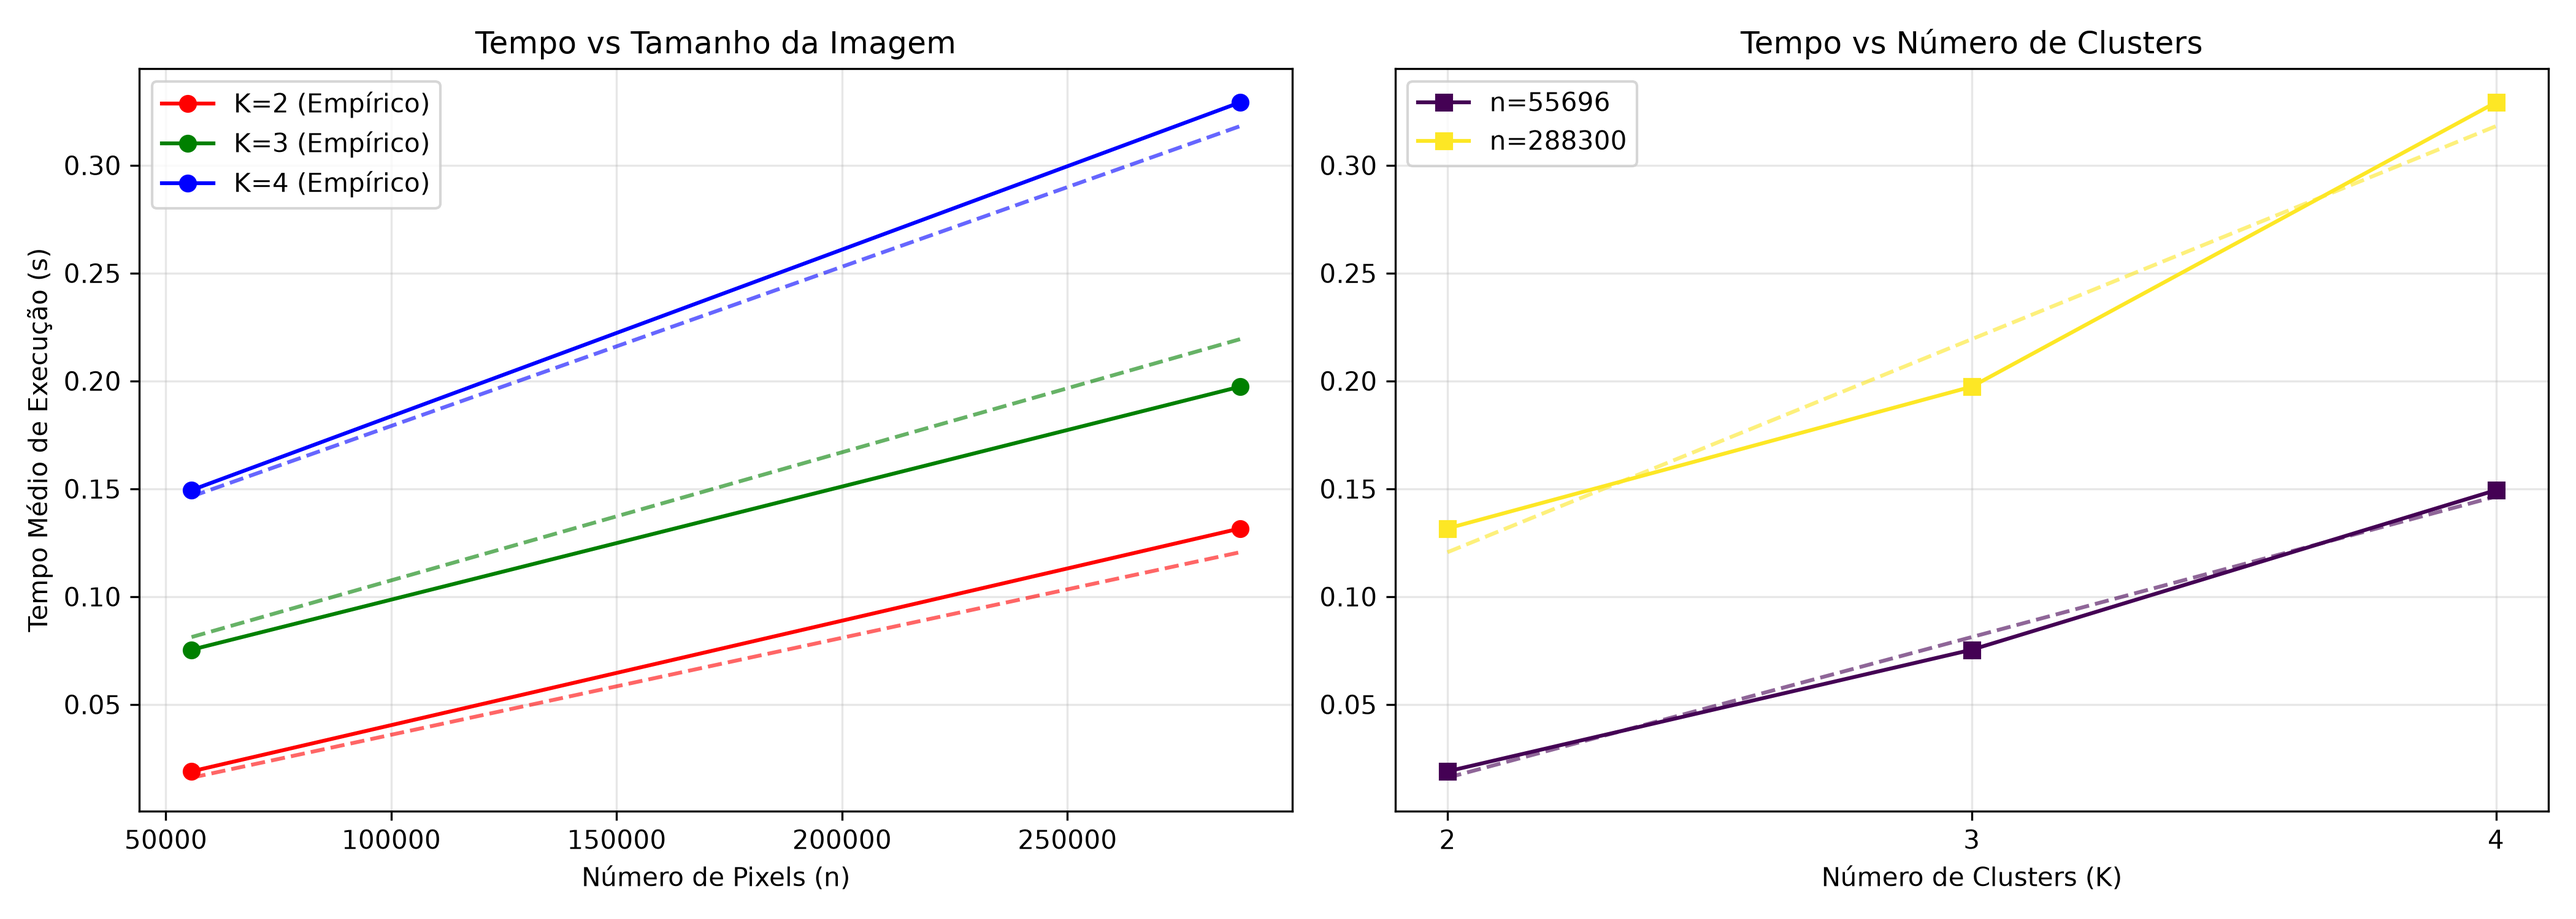
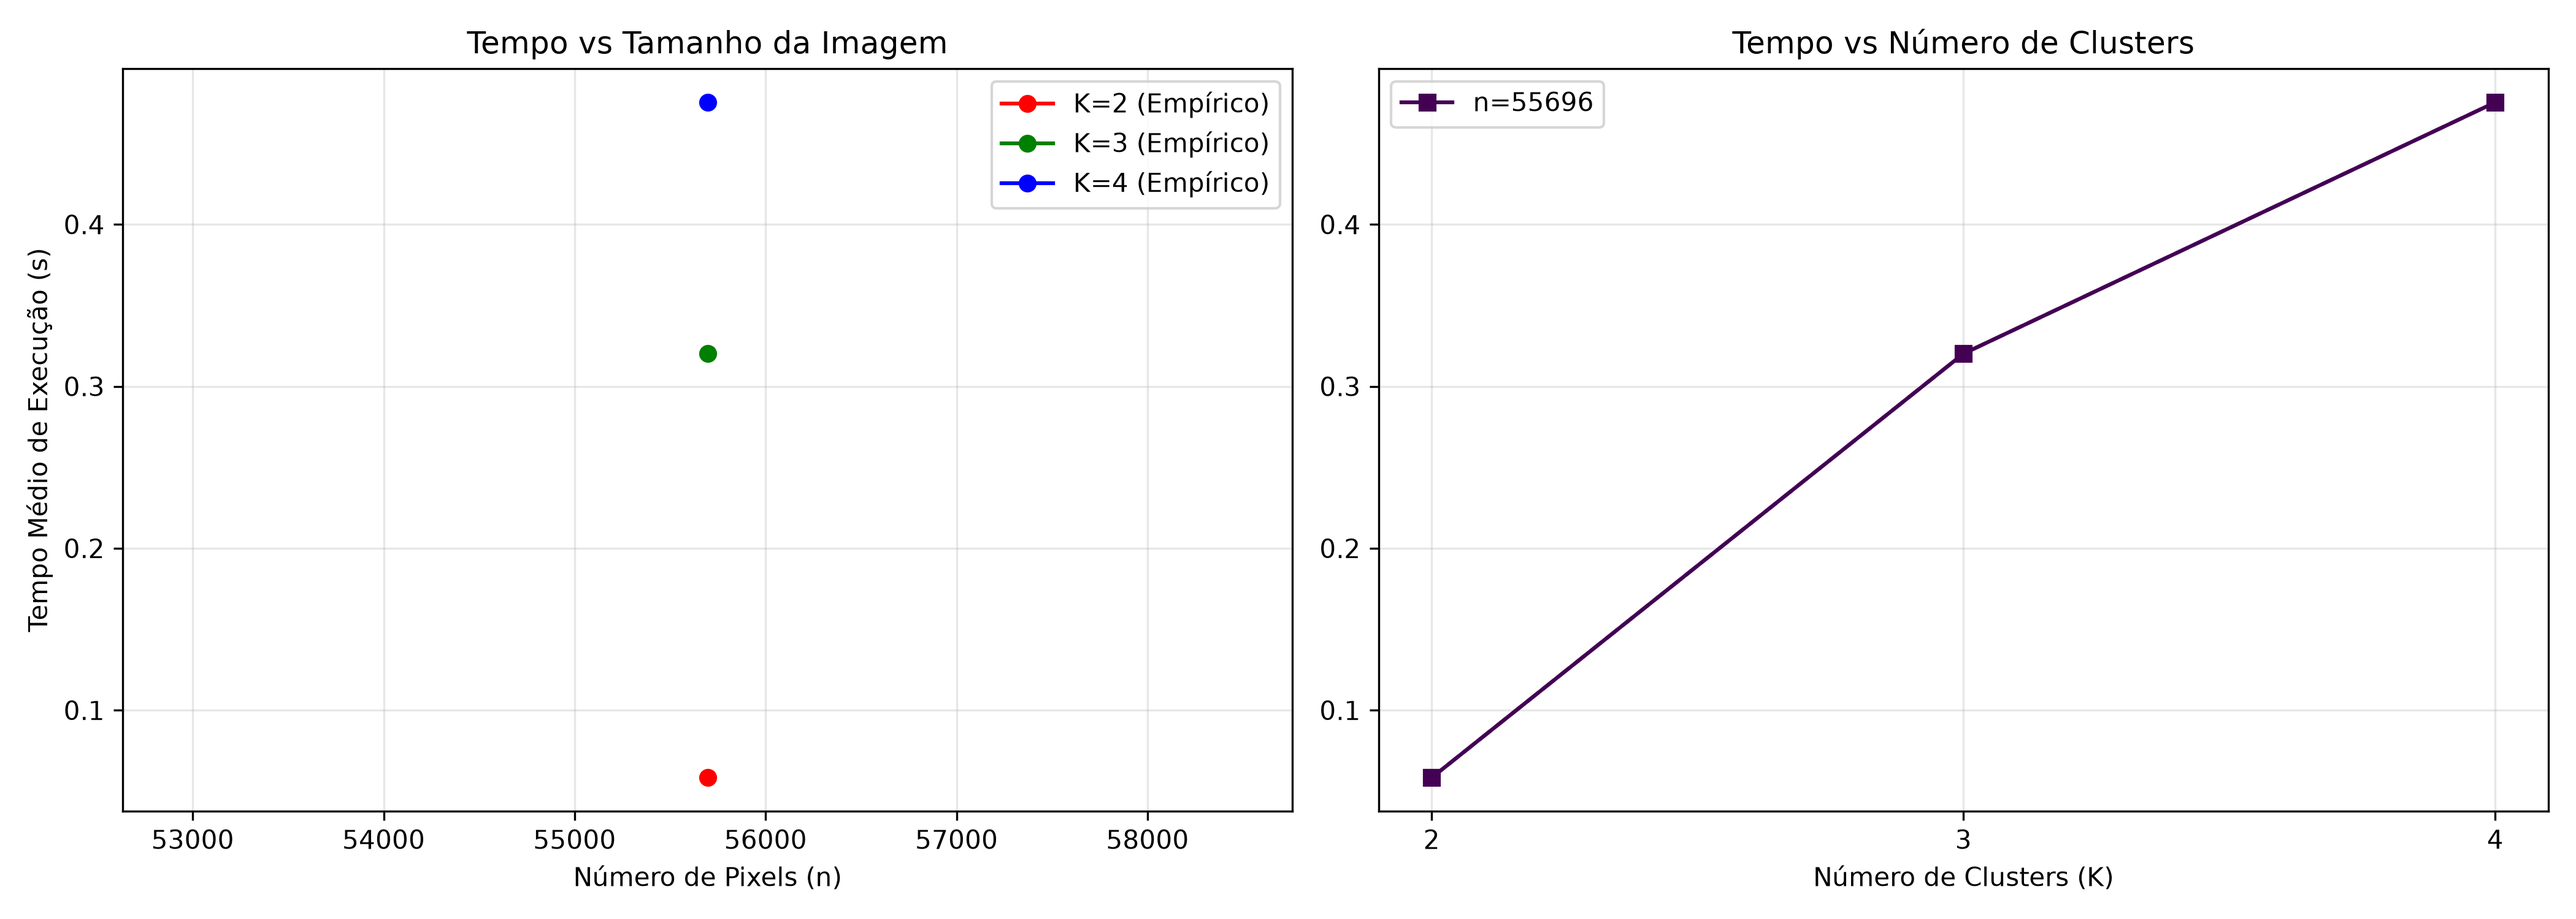
[feat]: seed para estabilizar

diff --git a/k_means/experimentador_EP_2026.3.py b/k_means/experimentador_EP_2026.3.py
@@ -2,9 +2,13 @@ import os
 import time
 import numpy as np
 import pandas as pd
+import matplotlib
+
+matplotlib.use("Agg")
 import matplotlib.pyplot as plt
 from PIL import Image
 from scipy.optimize import curve_fit
+
 
 # ==========================================
 # 1. Função do Aluno (K-means de 15set.py)
@@ -25,6 +29,8 @@ def segmenta_imagem(imagem_array, k):
     n_pixels = pixels.shape[0]
 
     # Inicialização: sorteia K pixels aleatórios como centroides
+    # Seed determinística por (n_pixels, k) para reduzir variabilidade entre repetições
+    np.random.seed((n_pixels + k * 1000003) % (2**32))
     indices = np.random.randint(0, n_pixels, size=k)
     centroides = pixels[indices].copy()
 
@@ -55,12 +61,13 @@ def segmenta_imagem(imagem_array, k):
 
         centroides = novos_centroides
 
+
 # ==========================================
 # 2. Descoberta e Ordenação Ligeira (Sem estourar RAM)
 # ==========================================
-img_dir = "./images" # Substitua pelo diretório real
+img_dir = "./images"  # Substitua pelo diretório real
 k_list = [2, 3, 4]
-R = 30 # Número de repetições por combinação
+R = 30  # Número de repetições por combinação
 
 print("Mapeando imagens e calculando 'n' (apenas cabeçalhos)...")
 arquivos_n = []
@@ -68,17 +75,18 @@ arquivos_n = []
 # Varre os arquivos no diretório especificado
 if os.path.exists(img_dir):
     for filename in os.listdir(img_dir):
-        if filename.lower().endswith(('.png', '.jpg', '.jpeg', '.bmp', '.tif')):
+        if filename.lower().endswith((".png", ".jpg", ".jpeg", ".bmp", ".tif")):
             filepath = os.path.join(img_dir, filename)
 
             # Image.open lê apenas os metadados. Não aloca a matriz de pixels.
             with Image.open(filepath) as img:
                 w, h = img.size
                 n = w * h
-                arquivos_n.append({'arquivo': filename, 'caminho': filepath, 'n': n})
+                arquivos_n.append({"arquivo": filename, "caminho": filepath, "n": n})
 
 # Ordena a lista de dicionários pelo valor de 'n' crescente
-arquivos_n = sorted(arquivos_n, key=lambda x: x['n'])
+arquivos_n = sorted(arquivos_n, key=lambda x: x["n"])
+arquivos_n = arquivos_n[:1]  # TESTE: apenas a imagem menor
 
 print(f"{len(arquivos_n)} imagens ordenadas prontas para processamento.")
 
@@ -88,9 +96,9 @@ print(f"{len(arquivos_n)} imagens ordenadas prontas para processamento.")
 resultados = []
 
 for item in arquivos_n:
-    n = item['n']
-    filepath = item['caminho']
-    nome_arquivo = item['arquivo']
+    n = item["n"]
+    filepath = item["caminho"]
+    nome_arquivo = item["arquivo"]
 
     print(f"Carregando {nome_arquivo} para a RAM (n={n})...")
 
@@ -105,13 +113,15 @@ for item in arquivos_n:
             segmenta_imagem(img_array, k)  # A matriz é passada aqui
             t1 = time.perf_counter()
 
-            resultados.append({
-                'arquivo': nome_arquivo,
-                'n': n,
-                'k': k,
-                'repeticao': r,
-                'tempo': (t1 - t0)
-            })
+            resultados.append(
+                {
+                    "arquivo": nome_arquivo,
+                    "n": n,
+                    "k": k,
+                    "repeticao": r,
+                    "tempo": (t1 - t0),
+                }
+            )
 
     # Libera a RAM explicitamente antes de carregar a próxima imagem
     del img_array
@@ -127,21 +137,25 @@ if not df_raw.empty:
     df_filtered = pd.DataFrame()
 
     # Filtragem de Outliers (Percentis 5 e 95)
-    for (n, k), group in df_raw.groupby(['n', 'k']):
-        p05 = group['tempo'].quantile(0.05)
-        p95 = group['tempo'].quantile(0.95)
-        valid_mask = (group['tempo'] >= p05) & (group['tempo'] <= p95)
+    for (n, k), group in df_raw.groupby(["n", "k"]):
+        p05 = group["tempo"].quantile(0.05)
+        p95 = group["tempo"].quantile(0.95)
+        valid_mask = (group["tempo"] >= p05) & (group["tempo"] <= p95)
         df_filtered = pd.concat([df_filtered, group[valid_mask]])
 
     # Validação de Estabilidade (Média, Desvio e CV)
-    resumo = df_filtered.groupby(['n', 'k']).agg(
-        tempo_medio=('tempo', 'mean'),
-        desvio=('tempo', 'std'),
-        contagem_valida=('tempo', 'count')
-    ).reset_index()
+    resumo = (
+        df_filtered.groupby(["n", "k"])
+        .agg(
+            tempo_medio=("tempo", "mean"),
+            desvio=("tempo", "std"),
+            contagem_valida=("tempo", "count"),
+        )
+        .reset_index()
+    )
 
-    resumo['CV'] = resumo['desvio'] / resumo['tempo_medio']
-    resumo['estavel_CV_menor_15'] = resumo['CV'] < 0.15
+    resumo["CV"] = resumo["desvio"] / resumo["tempo_medio"]
+    resumo["estavel_CV_menor_15"] = resumo["CV"] < 0.15
 
     print("\n--- Resumo de Estabilidade ---")
     print(resumo)
@@ -153,12 +167,14 @@ if not df_raw.empty:
         n, k = X
         return alpha * (n * k) + beta * n + gamma * k + delta
 
-    X_data = np.vstack((resumo['n'], resumo['k']))
-    y_data = resumo['tempo_medio']
+    X_data = np.vstack((resumo["n"], resumo["k"]))
+    y_data = resumo["tempo_medio"]
 
     # O p0 pode precisar de sintonia dependendo da escala de tempo real
-    popt, _ = curve_fit(model_n_k, X_data, y_data, p0=[1e-6, 1e-6, 1e-6, 0.01], maxfev=10000)
-    resumo['tempo_predito'] = model_n_k(X_data, *popt)
+    popt, _ = curve_fit(
+        model_n_k, X_data, y_data, p0=[1e-6, 1e-6, 1e-6, 0.01], maxfev=10000
+    )
+    resumo["tempo_predito"] = model_n_k(X_data, *popt)
 
     # ==========================================
     # 6. Plotagens Bidimensionais
@@ -166,54 +182,76 @@ if not df_raw.empty:
     fig, (ax1, ax2) = plt.subplots(1, 2, figsize=(14, 5))
 
     # Plot A: Tempo vs n
-    colors_k = ['red', 'green', 'blue', 'orange', 'purple']
+    colors_k = ["red", "green", "blue", "orange", "purple"]
     for idx, k in enumerate(k_list):
-        dados_k = resumo[resumo['k'] == k]
+        dados_k = resumo[resumo["k"] == k]
         if not dados_k.empty:
             c = colors_k[idx % len(colors_k)]
-            ax1.plot(dados_k['n'], dados_k['tempo_medio'], marker='o',
-                     color=c, label=f'K={k} (Empírico)')
-            ax1.plot(dados_k['n'], dados_k['tempo_predito'], linestyle='--',
-                     color=c, alpha=0.6)
+            ax1.plot(
+                dados_k["n"],
+                dados_k["tempo_medio"],
+                marker="o",
+                color=c,
+                label=f"K={k} (Empírico)",
+            )
+            ax1.plot(
+                dados_k["n"],
+                dados_k["tempo_predito"],
+                linestyle="--",
+                color=c,
+                alpha=0.6,
+            )
 
-    ax1.set_xlabel('Número de Pixels (n)')
-    ax1.set_ylabel('Tempo Médio de Execução (s)')
-    ax1.set_title('Tempo vs Tamanho da Imagem')
+    ax1.set_xlabel("Número de Pixels (n)")
+    ax1.set_ylabel("Tempo Médio de Execução (s)")
+    ax1.set_title("Tempo vs Tamanho da Imagem")
     ax1.legend()
     ax1.grid(True, alpha=0.3)
 
     # Plot B: Tempo vs K
-    n_processados = sorted(resumo['n'].unique())
+    n_processados = sorted(resumo["n"].unique())
     colors_n = plt.cm.viridis(np.linspace(0, 1, len(n_processados)))
 
     for idx, n_val in enumerate(n_processados):
-        dados_n = resumo[resumo['n'] == n_val]
+        dados_n = resumo[resumo["n"] == n_val]
         if not dados_n.empty:
-            ax2.plot(dados_n['k'], dados_n['tempo_medio'], marker='s',
-                     color=colors_n[idx], label=f'n={n_val}')
-            ax2.plot(dados_n['k'], dados_n['tempo_predito'], linestyle='--',
-                     color=colors_n[idx], alpha=0.6)
+            ax2.plot(
+                dados_n["k"],
+                dados_n["tempo_medio"],
+                marker="s",
+                color=colors_n[idx],
+                label=f"n={n_val}",
+            )
+            ax2.plot(
+                dados_n["k"],
+                dados_n["tempo_predito"],
+                linestyle="--",
+                color=colors_n[idx],
+                alpha=0.6,
+            )
 
-    ax2.set_xlabel('Número de Clusters (K)')
-    ax2.set_title('Tempo vs Número de Clusters')
+    ax2.set_xlabel("Número de Clusters (K)")
+    ax2.set_title("Tempo vs Número de Clusters")
     ax2.set_xticks(k_list)
     ax2.legend()
     ax2.grid(True, alpha=0.3)
 
     plt.tight_layout()
-    plt.savefig('relatorio_complexidade.png', dpi=300)
+    plt.savefig("relatorio_complexidade.png", dpi=300)
     plt.show()
 
-    print("\nPipeline concluído. Gráficos gerados e salvos como 'relatorio_complexidade.png'.")
+    print(
+        "\nPipeline concluído. Gráficos gerados e salvos como 'relatorio_complexidade.png'."
+    )
 
     # ==========================================
     # 7. Exportação dos Dados para Avaliação
     # ==========================================
-    arquivo_csv = 'resultados_foca_aluno.csv'
+    arquivo_csv = "resultados_foca_aluno.csv"
 
     # Exporta os dados usando ponto e vírgula como separador e vírgula para decimais,
     # garantindo que o arquivo seja aberto corretamente no Excel em PT-BR.
-    resumo.to_csv(arquivo_csv, index=False, float_format='%.6f', sep=';', decimal=',')
+    resumo.to_csv(arquivo_csv, index=False, float_format="%.6f", sep=";", decimal=",")
 
     print(f"Tabela de avaliação exportada com sucesso para: {arquivo_csv}")
 
